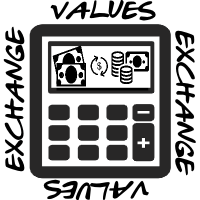
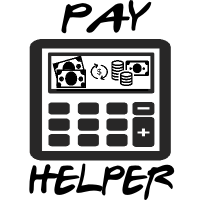
correções + atualizações + nova versão

diff --git a/components/screens/Main.js b/components/screens/Main.js
@@ -156,9 +156,9 @@ export default function ({navigation}) {
                         <TouchableHighlight underlayColor='#888' style={{margin: 5}} onPress={() => {
                             (idiom == "English")
                             ?
-                            Alert.alert('ABOUT', 'Thanks to Caique Cézar (1993-?), VALUES EXCHANGEs creator!')
+                            Alert.alert('ABOUT', 'Thanks to Caique Cézar (1993-?), PAY HELPERs creator!')
                             :
-                            Alert.alert('SOBRE', 'Agradeça a Caique Cézar (1993-?), criador do VALUES EXCHANGE!')
+                            Alert.alert('SOBRE', 'Agradeça a Caique Cézar (1993-?), criador do PAY HELPER')
                             }}
                         >
                             <View style={{alignItems:'center', width: 200, borderWidth: 2, borderColor: 'white', borderRadius: 10, backgroundColor: '#555'}}>
